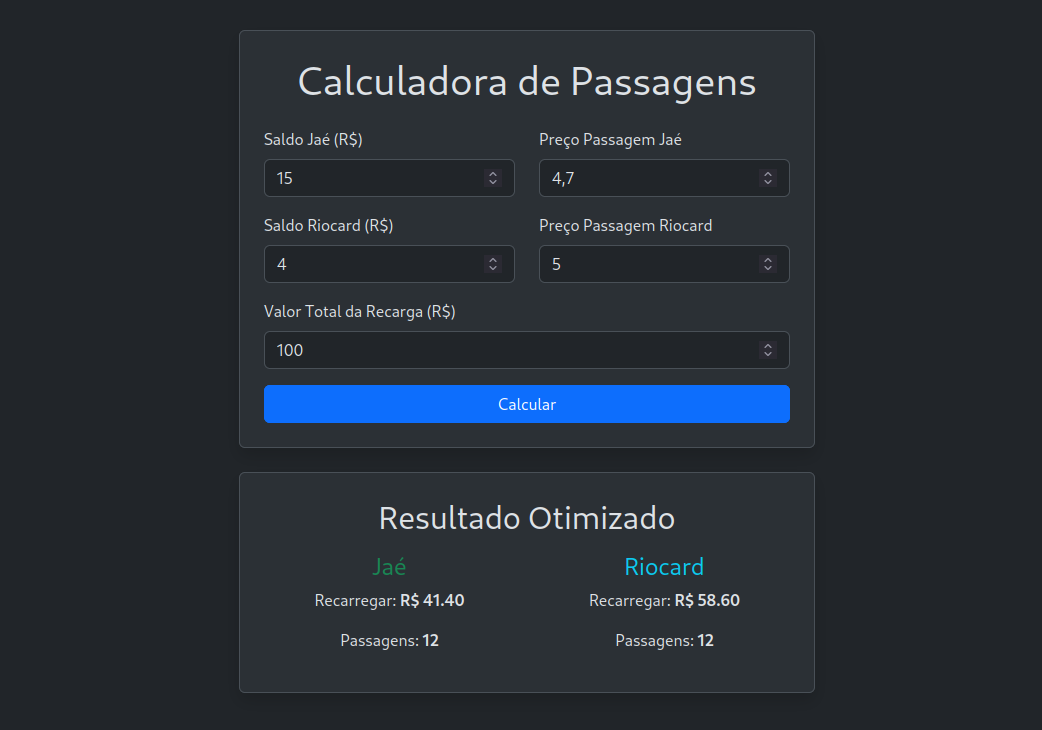
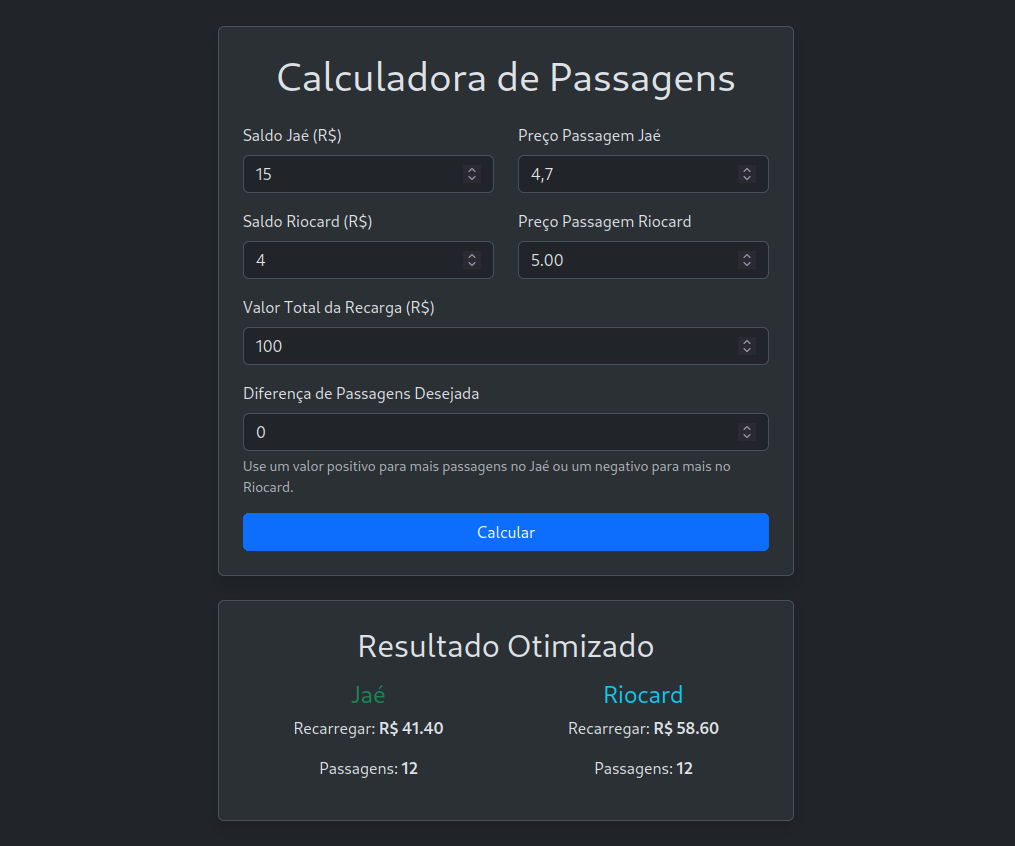
Add: added target ticket difference

diff --git a/templates/index.html b/templates/index.html
@@ -47,6 +47,15 @@
                     <label for="total_recharge" class="form-label">Valor Total da Recarga (R$)</label>
                     <input type="number" class="form-control" id="total_recharge" name="total_recharge" step="0.01" value="{{ context.total_recharge }}" required>
                 </div>
+
+                <div class="mb-3">
+                    <label for="desired_difference" class="form-label">Diferença de Passagens Desejada</label>
+                    <input type="number" class="form-control" id="desired_difference" name="desired_difference" step="1" value="{{ context.get('desired_difference', '0') }}" required>
+                    <div class="form-text">
+                        Use um valor positivo para mais passagens no Jaé ou um negativo para mais no Riocard.
+                    </div>
+                </div>
+
                 <button type="submit" class="btn btn-primary w-100">Calcular</button>
             </form>
         </div>

diff --git a/app.py b/app.py
@@ -8,14 +8,10 @@ getcontext().prec = 10
 # Inicializa a aplicação Flask
 app = Flask(__name__)
 
-def calculate_optimal_distribution(balance1_str, balance2_str, total_recharge_str, price1_str, price2_str):
+def calculate_optimal_distribution(balance1_str, balance2_str, total_recharge_str, price1_str, price2_str, desired_difference_str):
     """
-    Calcula a distribuição ótima de recarga para dois cartões, minimizando a diferença
-    no número de passagens que cada um pode comprar.
-
-    A lógica otimizada itera sobre o número de passagens possíveis para o primeiro cartão,
-    calcula a recarga mínima necessária para atingir essa quantidade e, em seguida,
-    encontra a melhor combinação que equilibra as passagens entre os dois cartões.
+    Calcula a distribuição de recarga que mais se aproxima de uma diferença
+    desejada no número de passagens entre dois cartões.
 
     Args:
         balance1_str (str): Saldo atual do cartão 1.
@@ -23,75 +19,70 @@ def calculate_optimal_distribution(balance1_str, balance2_str, total_recharge_st
         total_recharge_str (str): Valor total da recarga.
         price1_str (str): Preço da passagem para o cartão 1.
         price2_str (str): Preço da passagem para o cartão 2.
+        desired_difference_str (str): A diferença desejada de passagens (n1 - n2).
 
     Returns:
         dict: Um dicionário com a solução ótima encontrada.
     """
-    # Converte todas as entradas para Decimal para garantir a precisão matemática
+    # Converte todas as entradas para o tipo correto
     balance1 = Decimal(balance1_str)
     balance2 = Decimal(balance2_str)
     total_recharge = Decimal(total_recharge_str)
-    # Garante que o preço nunca seja zero para evitar divisão por zero
     price1 = Decimal(price1_str) if Decimal(price1_str) > 0 else Decimal('1')
     price2 = Decimal(price2_str) if Decimal(price2_str) > 0 else Decimal('1')
+    desired_difference = int(desired_difference_str)
 
-    best_solution = {"difference": float('inf')}
+    # 'cost' representa o quão longe a solução atual está do alvo (diferença desejada).
+    # O objetivo é minimizar esse custo.
+    best_solution = {"cost": float('inf')}
 
     # Calcula o número máximo de passagens que o cartão 1 poderia ter
-    # se toda a recarga fosse para ele.
     max_tickets_c1 = math.floor((balance1 + total_recharge) / price1)
 
-    # Itera sobre cada quantidade possível de passagens para o cartão 1.
+    # Itera sobre cada quantidade possível de passagens para o cartão 1
     for n1 in range(max_tickets_c1 + 1):
-        # Calcula a recarga mínima necessária para o cartão 1 atingir 'n1' passagens.
-        # O valor é max(0, ...) para garantir que a recarga não seja negativa.
+        # Calcula a recarga mínima para o cartão 1 atingir 'n1' passagens
         recharge_c1 = max(Decimal('0'), n1 * price1 - balance1)
-        
-        # Arredonda para o próximo centavo, garantindo que o valor seja suficiente.
         recharge_c1 = math.ceil(recharge_c1 * 100) / Decimal(100)
 
-        # Se a recarga necessária for maior que o total disponível, podemos parar.
         if recharge_c1 > total_recharge:
             break
 
-        # A recarga para o cartão 2 é o que sobra do total.
         recharge_c2 = total_recharge - recharge_c1
-
-        # Calcula quantas passagens o cartão 2 consegue comprar com a recarga restante.
         n2 = math.floor((balance2 + recharge_c2) / price2)
         
-        difference = abs(n1 - n2)
+        # Calcula o "custo": a distância entre a diferença atual e a desejada
+        cost = abs((n1 - n2) - desired_difference)
 
-        # Se a diferença atual for menor que a melhor encontrada, atualiza a solução.
-        if difference < best_solution["difference"]:
+        # Se o custo atual for o menor encontrado, atualiza a melhor solução
+        if cost < best_solution["cost"]:
             best_solution = {
                 "recharge_c1": recharge_c1,
                 "recharge_c2": recharge_c2,
                 "tickets_c1": n1,
                 "tickets_c2": n2,
-                "difference": difference
+                "cost": cost
             }
         
-        # Otimização: se a diferença for 0, a solução perfeita foi encontrada.
-        if best_solution["difference"] == 0:
+        # Otimização: se o custo for 0, a solução perfeita foi encontrada
+        if best_solution["cost"] == 0:
             break
             
     return best_solution
 
 @app.route('/', methods=['GET', 'POST'])
 def index():
-    # Dicionário de contexto para armazenar os valores do formulário e a solução.
-    # Isso permite que os valores digitados pelo usuário permaneçam na tela.
+    # Contexto para armazenar os valores do formulário e a solução
     context = {
         "solution": None,
         "r1": "0",
         "r2": "0",
         "total_recharge": "10.00",
         "p1": "4.70",
-        "p2": "5.00"
+        "p2": "5.00",
+        "desired_difference": "0"  # Valor padrão para a diferença
     }
 
-    # Se o formulário for enviado (método POST)
     if request.method == 'POST':
         try:
             # Obtém os valores do formulário e atualiza o contexto
@@ -100,20 +91,18 @@ def index():
             context['total_recharge'] = request.form.get('total_recharge', '0')
             context['p1'] = request.form.get('p1')
             context['p2'] = request.form.get('p2')
+            context['desired_difference'] = request.form.get('desired_difference', '0')
 
-            # Chama a função de cálculo para encontrar a distribuição ótima
+            # Chama a função de cálculo com o novo parâmetro
             solution = calculate_optimal_distribution(
-                context['r1'], context['r2'], context['total_recharge'], context['p1'], context['p2']
+                context['r1'], context['r2'], context['total_recharge'], 
+                context['p1'], context['p2'], context['desired_difference']
             )
             context['solution'] = solution
         except Exception as e:
-            # Em caso de erro, exibe uma mensagem amigável na interface
             context['solution'] = {"error": f"Erro ao processar a solicitação: {e}"}
             
-    # Renderiza o template HTML, passando o contexto com os dados
     return render_template('index.html', context=context)
 
 if __name__ == '__main__':
-    # Executa a aplicação Flask. O host '0.0.0.0' torna a aplicação acessível
-    # a partir de outras máquinas na mesma rede (útil para Docker).
     app.run(host='0.0.0.0', port=5000)

diff --git a/README.md b/README.md
@@ -4,7 +4,7 @@
 
 ## 🎯 Sobre o Projeto
 
-A **Calculadora de Recarga** é uma aplicação web inteligente projetada para otimizar o uso de dois cartões de transporte (como Riocard e Jaé). Com base no saldo atual de cada cartão, no valor da recarga e nas tarifas, a ferramenta calcula a distribuição exata da recarga para maximizar o número total de passagens, garantindo o melhor aproveitamento do seu dinheiro.
+A **Calculadora de Recarga** é uma aplicação web inteligente projetada para otimizar o uso de dois cartões de transporte. Com base nos saldos, no valor da recarga e nas tarifas, a ferramenta calcula a distribuição ideal para atingir um **equilíbrio de passagens personalizável**, permitindo que você decida se prefere um número igual de passagens ou favorecer um dos cartões com uma quantidade específica a mais.
 
 Chega de fazer contas de cabeça ou desperdiçar saldo!
 
@@ -12,27 +12,30 @@ Chega de fazer contas de cabeça ou desperdiçar saldo!
 
 ## ✨ Funcionalidades
 
--   **Cálculo Otimizado:** Garante a melhor distribuição possível da recarga.
+-   **Cálculo Otimizado:** Encontra a melhor distribuição de recarga para atingir seu objetivo.
+-   **Diferença Alvo Personalizável:** Defina a diferença exata de passagens que você deseja entre os cartões (ex: 0 para equilíbrio, +2 para favorecer o primeiro, ou -3 para o segundo).
 -   **Interface Moderna e Responsiva:** Design limpo que funciona perfeitamente em desktops e celulares.
 -   **Tarifas Flexíveis:** Permite inserir os valores exatos das tarifas para cada cartão.
--   **Nomes Personalizáveis:** As legendas dos cartões foram atualizadas para "Jaé" e "Riocard".
 -   **Persistência de Dados:** O formulário memoriza os últimos valores inseridos para agilizar o uso.
 
 ---
 
 ## 💡 Lógica de Otimização
 
-Para garantir um resultado **perfeito** com a máxima performance, a calculadora implementa um algoritmo híbrido avançado:
+Para garantir um resultado preciso e com alta performance, a calculadora implementa um algoritmo otimizado:
 
-1.  **Busca Binária Rápida:** Primeiramente, o algoritmo usa uma busca binária (*binary search*) para encontrar rapidamente a região aproximada onde a solução ótima se encontra. Em vez de testar todas as possibilidades, ele corta o universo de busca pela metade a cada passo, convergindo para a área de interesse de forma quase instantânea.
+1.  **Iteração por Passagens (Eficiente):** Para encontrar a solução ideal, o algoritmo itera de forma inteligente sobre o número de passagens possíveis para o primeiro cartão. Essa abordagem garante alta performance.
 
-2.  **Análise de Precisão por Breakpoints:** Uma vez que a busca binária delimita uma pequena faixa de valores, o algoritmo muda para uma análise de "breakpoints". Ele inspeciona apenas os pontos de recarga críticos dentro dessa faixa — os valores exatos onde o número de passagens poderia mudar.
+2.  **Cálculo do "Custo":** Para cada quantidade de passagens do primeiro cartão (`n1`), o algoritmo calcula:
+    -   A recarga mínima necessária para atingir `n1`.
+    -   A recarga restante para o segundo cartão.
+    -   O número de passagens resultante para o segundo cartão (`n2`).
 
-3.  **Seleção da Melhor Opção:** Ao testar apenas esses pontos críticos, o algoritmo identifica a combinação de recarga que resulta no equilíbrio perfeito (a menor diferença possível de passagens entre os cartões).
+3.  **Busca pelo Menor Custo:** O objetivo é encontrar a combinação que minimiza o **"custo"**, definido como a distância entre a diferença de passagens real (`n1 - n2`) e a **diferença desejada** pelo usuário.
 
-4.  **Exatidão com `Decimal`:** Todas as operações financeiras utilizam o tipo `Decimal` do Python, eliminando os erros de arredondamento de tipos de ponto flutuante e garantindo que o resultado seja matematicamente exato.
+4.  **Seleção da Melhor Opção:** A solução com o menor custo é selecionada como a ideal, garantindo o resultado que mais se aproxima do seu objetivo.
 
-Essa abordagem em duas fases combina a velocidade da busca binária com a precisão da análise de breakpoints, garantindo a melhor solução possível da forma mais eficiente.
+5.  **Exatidão com `Decimal`:** Todas as operações financeiras utilizam o tipo `Decimal` do Python, eliminando os erros de arredondamento de tipos de ponto flutuante e garantindo que o resultado seja matematicamente exato.
 
 ---
 
